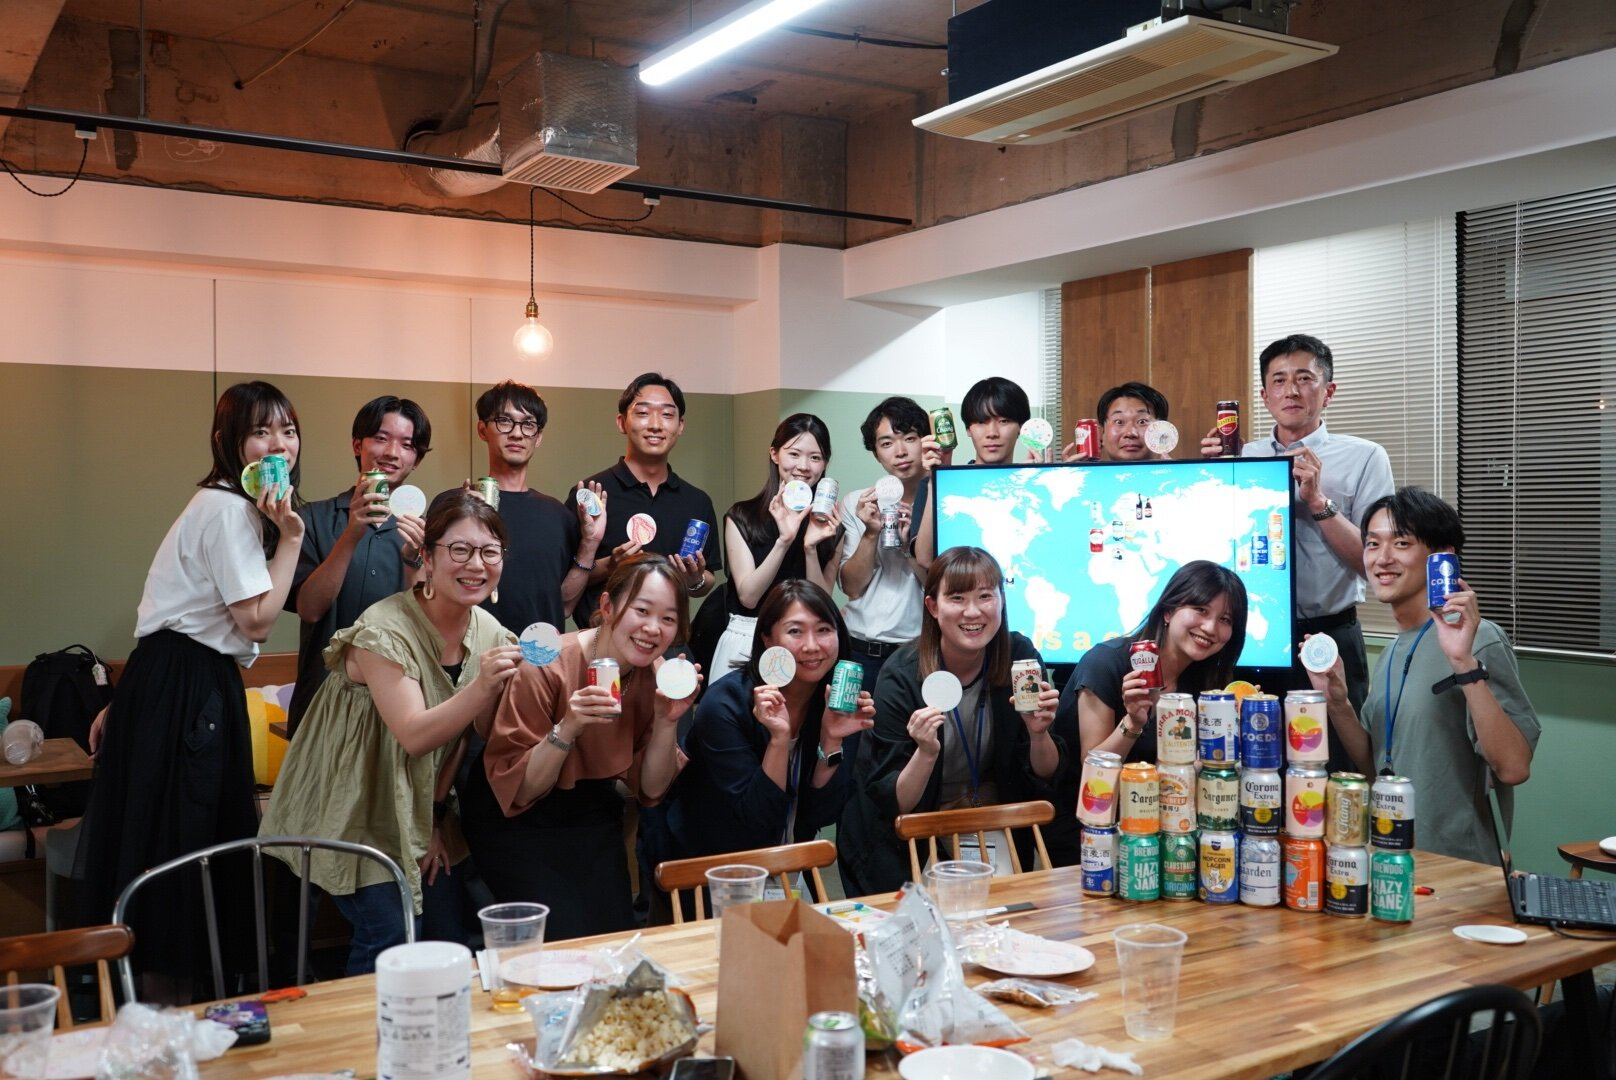
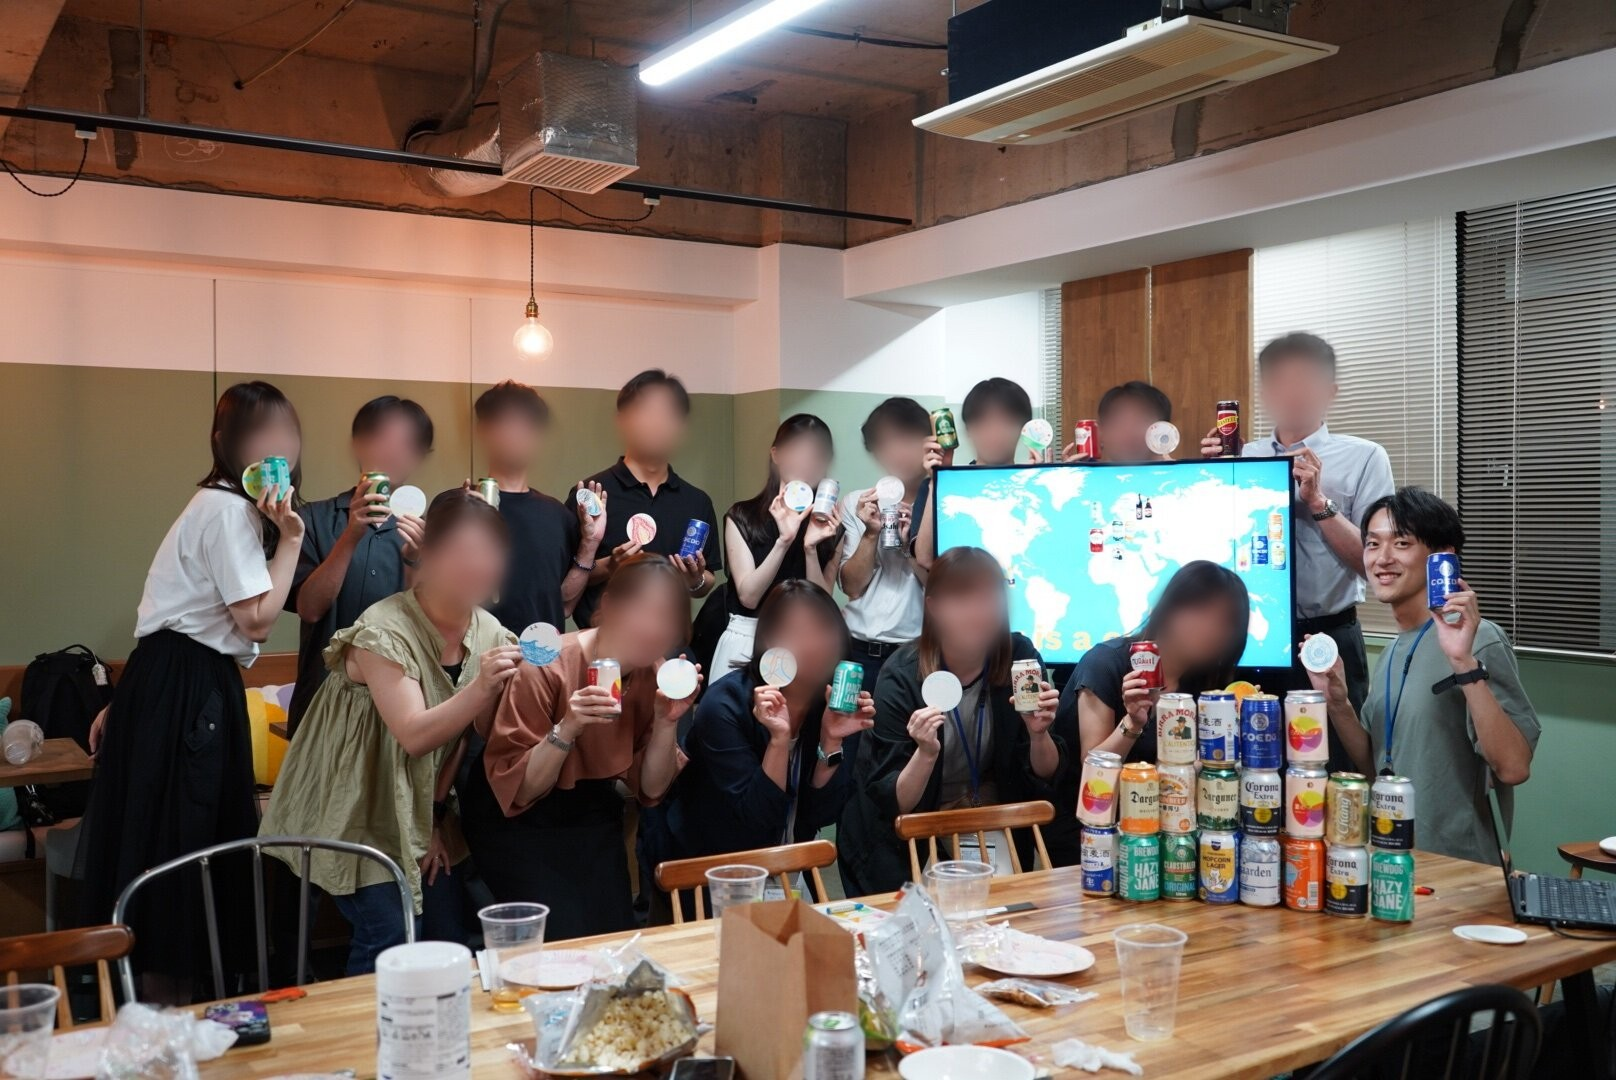
Blur culture club group faces while preserving the user-confirmed front-right person
Use a versioned privacy asset, retire the unblurred derivative and placeholder, and add image routing regression coverage.

diff --git a/src/lib/optimizedImage.ts b/src/lib/optimizedImage.ts
@@ -1,3 +1,8 @@
+const privacyEdits: Record<string, string> = {
+  '/images/portfolio/culture-beer-01.jpg': '/images/portfolio/culture-beer-01-private.webp',
+};
+const editedImages = new Set(Object.values(privacyEdits));
+
 export type OptimizedOptions = {
   type?: 'display' | 'thumbs';
   width?: number;
@@ -8,7 +13,9 @@ export function optimizedImage(
   src: string,
   { type = 'display', width = 1600, format = 'webp' }: OptimizedOptions = {}
 ): string {
-  if (src.toLowerCase().endsWith('.svg')) {
+  // Versioned edited originals avoid serving stale, unblurred derivatives.
+  if (privacyEdits[src]) return privacyEdits[src];
+  if (editedImages.has(src) || src.toLowerCase().endsWith('.svg')) {
     return src;
   }
   const base = src.replace(/^\/images\//, '').replace(/\.[^.]+$/, '');

diff --git a/src/lib/__tests__/optimizedImage.test.ts b/src/lib/__tests__/optimizedImage.test.ts
@@ -1,0 +1,16 @@
+import { optimizedImage } from '../optimizedImage';
+
+it('routes every size and format of a privacy-edited photo to its versioned asset', () => {
+  const original = '/images/portfolio/culture-beer-01.jpg';
+  const edited = '/images/portfolio/culture-beer-01-private.webp';
+  for (const type of ['display', 'thumbs'] as const) {
+    for (const width of [320, 480, 1200, 1600, 2400]) {
+      for (const format of ['avif', 'webp'] as const) {
+        expect(optimizedImage(original, { type, width, format })).toBe(edited);
+      }
+    }
+  }
+  expect(optimizedImage(edited)).toBe(edited);
+  expect(optimizedImage('/images/test.jpg')).toBe('/optimized/display/test-1600.webp');
+  expect(optimizedImage('/images/test.svg')).toBe('/images/test.svg');
+});
